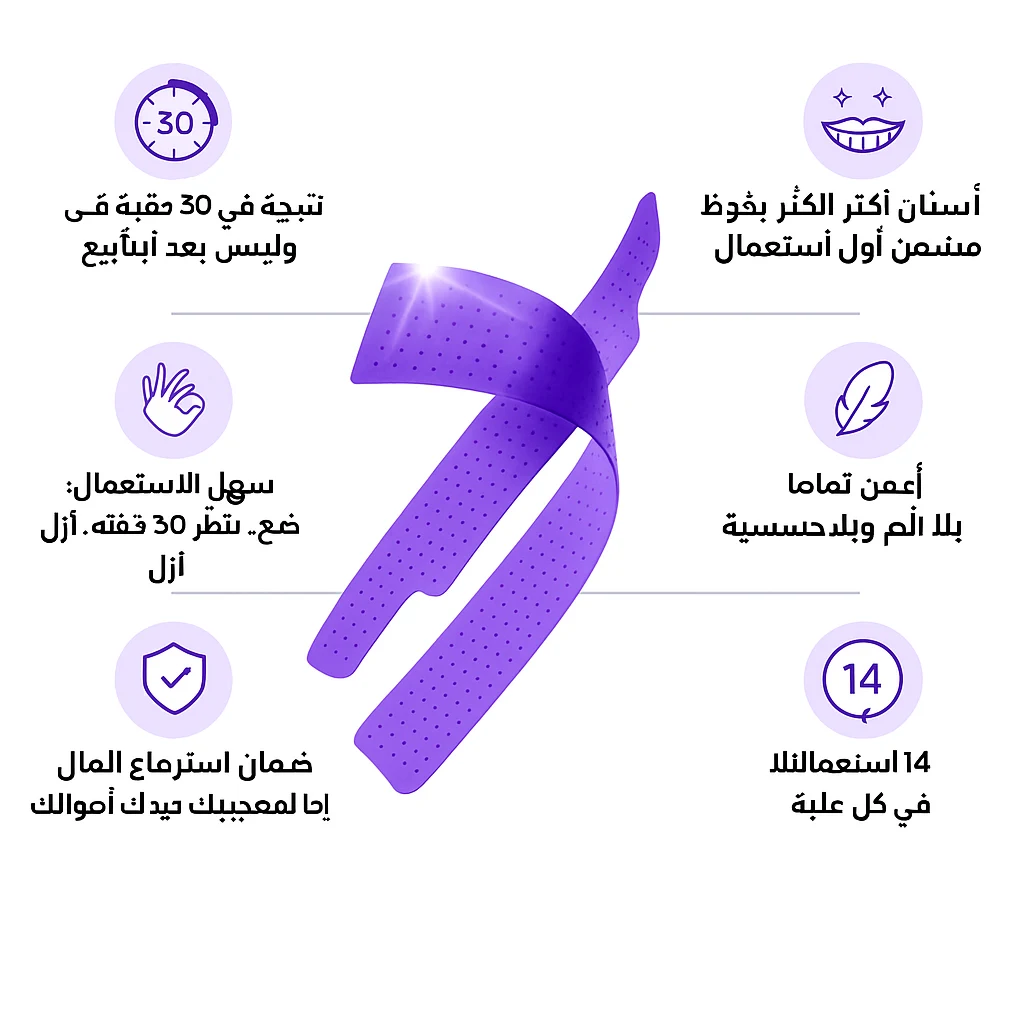
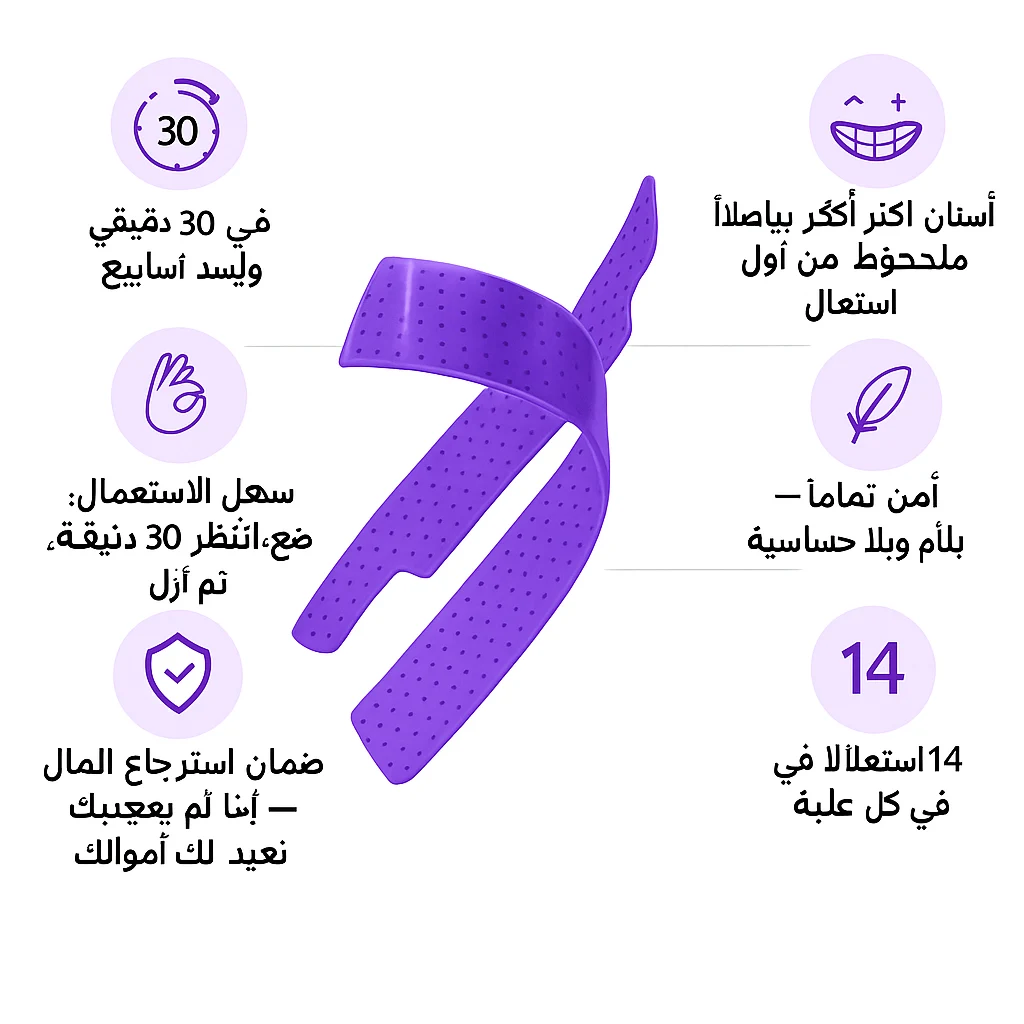
Restore OpenAI benefit infographics; regenerate Arabic from EN template on white bg.
Reverted CSS grid to img-ar/en/fr; benefits section white to match infographic; Arabic edited from benefits-infographic-en via gpt-image-1 with explicit RTL prompt.

diff --git a/src/styles.css b/src/styles.css
@@ -895,141 +895,31 @@
   .split-media img { max-width: 100%; }
 }
 
-/* ─── Benefits section (checklist only — gallery is hero-only) ─── */
-.benefits-section { padding: var(--sec-py) var(--sec-px); }
+/* ─── Benefits section — OpenAI infographic images on white ─── */
+.benefits-section {
+  padding: var(--sec-py) var(--sec-px);
+  background: #fff;
+}
 .benefits-inner {
   max-width: var(--max-w);
   margin: 0 auto;
 }
-.benefits-inner .section-head { margin-bottom: 16px; }
-
-/* Benefits infographic — native layout, blends with bg-alt (no white card) */
-.benefits-visual {
+.benefits-inner .section-head { margin-bottom: 12px; }
+.benefits-infographic-wrap {
   margin: 0 auto;
   max-width: min(920px, 100%);
-  padding: clamp(8px, 2vw, 16px) 0;
 }
-.benefits-visual-grid {
-  display: grid;
-  grid-template-columns: minmax(0, 1fr) minmax(110px, 34%) minmax(0, 1fr);
-  grid-template-rows: repeat(3, auto);
-  gap: clamp(14px, 3vw, 28px) clamp(8px, 2vw, 20px);
-  align-items: center;
-  position: relative;
-}
-.benefits-visual-center {
-  grid-column: 2;
-  grid-row: 1 / span 3;
-  display: flex;
-  align-items: center;
-  justify-content: center;
-  padding: 0 4px;
-  z-index: 1;
-}
-.benefits-visual-center img {
+.benefits-infographic {
   width: 100%;
-  max-width: 280px;
   height: auto;
-  object-fit: contain;
-  filter: drop-shadow(0 12px 28px rgba(91, 0, 158, 0.12));
-}
-.benefits-visual-item {
-  display: flex;
-  align-items: center;
-  gap: 10px;
-  min-width: 0;
-}
-.benefits-visual-pos-start-1 { grid-column: 1; grid-row: 1; justify-content: flex-end; text-align: end; }
-.benefits-visual-pos-end-1   { grid-column: 3; grid-row: 1; justify-content: flex-start; text-align: start; }
-.benefits-visual-pos-start-2 { grid-column: 1; grid-row: 2; justify-content: flex-end; text-align: end; }
-.benefits-visual-pos-end-2   { grid-column: 3; grid-row: 2; justify-content: flex-start; text-align: start; }
-.benefits-visual-pos-start-3 { grid-column: 1; grid-row: 3; justify-content: flex-end; text-align: end; }
-.benefits-visual-pos-end-3   { grid-column: 3; grid-row: 3; justify-content: flex-start; text-align: start; }
-.app[dir="ltr"] .benefits-visual-pos-start-1,
-.app[dir="ltr"] .benefits-visual-pos-start-2,
-.app[dir="ltr"] .benefits-visual-pos-start-3 {
-  justify-content: flex-start;
-  text-align: start;
-}
-.app[dir="ltr"] .benefits-visual-pos-end-1,
-.app[dir="ltr"] .benefits-visual-pos-end-2,
-.app[dir="ltr"] .benefits-visual-pos-end-3 {
-  justify-content: flex-end;
-  text-align: end;
-}
-.benefits-visual-text {
-  margin: 0;
-  font-size: clamp(12px, 1.15vw, 15px);
-  font-weight: 800;
-  line-height: 1.35;
-  color: var(--primary-dark);
-  max-width: 22ch;
-  text-wrap: balance;
-}
-.benefits-visual-icon {
-  flex: 0 0 52px;
-  width: 52px;
-  height: 52px;
-  display: flex;
-  align-items: center;
-  justify-content: center;
-  border-radius: 50%;
-  background: linear-gradient(160deg, #f3ebfc 0%, #ebe2f7 100%);
-  border: 1.5px solid rgba(91, 0, 158, 0.12);
-  color: var(--primary);
-  position: relative;
-}
-.benefits-visual-icon .material-symbols-outlined {
-  font-size: 26px;
-  font-variation-settings: 'FILL' 0, 'wght' 500;
-}
-.benefits-visual-icon--timer .material-symbols-outlined { font-size: 22px; }
-.benefits-visual-badge {
-  position: absolute;
-  font-size: 11px;
-  font-weight: 900;
-  color: var(--primary-dark);
-  line-height: 1;
-}
-.benefits-visual-icon--timer .benefits-visual-badge {
-  inset: 50% auto auto 50%;
-  transform: translate(-50%, -35%);
-}
-.benefits-visual-icon--count .benefits-visual-badge {
-  position: static;
-  font-size: 18px;
-}
-/* Horizontal rule accents between rows */
-.benefits-visual-grid::before,
-.benefits-visual-grid::after {
-  content: '';
-  position: absolute;
-  left: 8%;
-  right: 8%;
-  height: 1px;
-  background: linear-gradient(90deg, transparent, rgba(91, 0, 158, 0.14) 20%, rgba(91, 0, 158, 0.14) 80%, transparent);
-  pointer-events: none;
-}
-.benefits-visual-grid::before { top: 33%; }
-.benefits-visual-grid::after  { top: 66%; }
-@media (max-width: 640px) {
-  .benefits-visual-grid {
-    grid-template-columns: minmax(0, 1fr) minmax(88px, 30%) minmax(0, 1fr);
-    gap: 12px 6px;
-  }
-  .benefits-visual-icon {
-    flex: 0 0 44px;
-    width: 44px;
-    height: 44px;
-  }
-  .benefits-visual-icon .material-symbols-outlined { font-size: 22px; }
-  .benefits-visual-text { font-size: 11px; max-width: 18ch; }
-  .benefits-visual-center img { max-width: 200px; }
+  display: block;
+  margin: 0 auto;
+  border: none;
+  box-shadow: none;
+  background: transparent;
 }
 @media (min-width: 900px) {
-  .benefits-visual { max-width: 880px; }
-  .benefits-visual-text { font-size: 15px; max-width: 24ch; }
-  .benefits-visual-icon { flex: 0 0 58px; width: 58px; height: 58px; }
+  .benefits-infographic-wrap { max-width: 880px; }
 }
 
 /* ─── Benefits List ─── */

diff --git a/src/page.html b/src/page.html
@@ -337,43 +337,17 @@
     <!-- ══════════════════════════════════════════════════════
          BENEFITS — checklist only (gallery is hero-only)
     ══════════════════════════════════════════════════════ -->
-    <section class="benefits-section bg-alt reveal" id="benefits-section">
+    <section class="benefits-section reveal" id="benefits-section">
       <div class="benefits-inner section-container">
         <div class="section-head text-center">
           <span class="section-eyebrow" data-i18n="ben_eyebrow">الفوائد</span>
-          <h2 class="t-h2" id="benefits-section-title" data-i18n="land_benefits_h">شنو غادي تربح</h2>
+          <h2 class="t-h2" data-i18n="land_benefits_h">شنو غادي تربح</h2>
         </div>
-        <div class="benefits-visual" role="group" aria-labelledby="benefits-section-title">
-          <div class="benefits-visual-grid">
-            <div class="benefits-visual-item benefits-visual-pos-start-1">
-              <span class="benefits-visual-icon" aria-hidden="true"><span class="material-symbols-outlined">sentiment_very_satisfied</span></span>
-              <p class="benefits-visual-text" data-i18n="ben_1">أسنان أكثر بياضاً بشكل ملحوظ من أول استعمال</p>
-            </div>
-            <div class="benefits-visual-item benefits-visual-pos-end-1">
-              <p class="benefits-visual-text" data-i18n="ben_2">نتيجة في 30 دقيقة وليس بعد أسابيع</p>
-              <span class="benefits-visual-icon benefits-visual-icon--timer" aria-hidden="true"><span class="material-symbols-outlined">schedule</span><span class="benefits-visual-badge">30</span></span>
-            </div>
-            <div class="benefits-visual-item benefits-visual-pos-start-2">
-              <span class="benefits-visual-icon" aria-hidden="true"><span class="material-symbols-outlined">spa</span></span>
-              <p class="benefits-visual-text" data-i18n="ben_3">آمن تماماً — بلا ألم وبلا حساسية</p>
-            </div>
-            <div class="benefits-visual-item benefits-visual-pos-end-2">
-              <p class="benefits-visual-text" data-i18n="ben_4">سهل الاستعمال: ضع، انتظر 30 دقيقة، ثم أزل</p>
-              <span class="benefits-visual-icon" aria-hidden="true"><span class="material-symbols-outlined">front_hand</span></span>
-            </div>
-            <div class="benefits-visual-item benefits-visual-pos-start-3">
-              <span class="benefits-visual-icon benefits-visual-icon--count" aria-hidden="true"><span class="benefits-visual-badge">14</span></span>
-              <p class="benefits-visual-text" data-i18n="ben_5">14 استعمالاً في كل علبة</p>
-            </div>
-            <div class="benefits-visual-item benefits-visual-pos-end-3">
-              <p class="benefits-visual-text" data-i18n="ben_6">ضمان استرجاع المال — إذا لم يعجبك، نُعيد لك أموالك</p>
-              <span class="benefits-visual-icon" aria-hidden="true"><span class="material-symbols-outlined">verified_user</span></span>
-            </div>
-            <div class="benefits-visual-center" aria-hidden="true">
-              <img src="https://cdn.jsdelivr.net/gh/chafiyounes/mapper-youcant@main/images/benefits/strip-center.webp" alt="" width="400" height="400" loading="lazy" decoding="async"/>
-            </div>
-          </div>
-        </div>
+        <figure class="benefits-infographic-wrap">
+          <img class="img-ar benefits-infographic" src="https://cdn.jsdelivr.net/gh/chafiyounes/mapper-youcant@main/images/benefits/benefits-infographic-ar.webp" alt="أسنان أكثر بياضاً، نتيجة في 30 دقيقة، آمن تماماً، سهل الاستعمال، 14 استعمالاً، ضمان استرجاع المال" width="1024" height="1024" loading="lazy" decoding="async"/>
+          <img class="img-en benefits-infographic" src="https://cdn.jsdelivr.net/gh/chafiyounes/mapper-youcant@main/images/benefits/benefits-infographic-en.webp" alt="Visibly whiter teeth, results in 30 minutes, completely safe, easy to use, 14 uses per box, money-back guarantee" width="1024" height="1024" loading="lazy" decoding="async"/>
+          <img class="img-fr benefits-infographic" src="https://cdn.jsdelivr.net/gh/chafiyounes/mapper-youcant@main/images/benefits/benefits-infographic-fr.webp" alt="Dents plus blanches, résultat en 30 minutes, totalement sûr, facile à utiliser, 14 utilisations, satisfait ou remboursé" width="1024" height="1024" loading="lazy" decoding="async"/>
+        </figure>
       </div>
     </section>
 

diff --git a/images/benefits/README.md b/images/benefits/README.md
@@ -1,21 +1,18 @@
 # Benefits infographic (AR / EN / FR)
 
-**Live page:** uses native HTML/CSS (`.benefits-visual`) with i18n strings — perfect Arabic and blends with `--surface-alt` (`#f4f0f9`).
+Raster infographics for the benefits section. **EN** is the master template; **AR** is generated from EN via OpenAI `gpt-image-1` edit.
 
-**Optional raster exports** (AI text often breaks Arabic — not used on page):
+| File | Language | Source |
+|------|----------|--------|
+| `benefits-infographic-en.png` | English | `source.png` |
+| `benefits-infographic-ar.png` | Arabic | `benefits-infographic-en.png` |
+| `benefits-infographic-fr.png` | French | `benefits-infographic-en.png` |
 
-| File | Language |
-|------|----------|
-| `benefits-infographic-ar.webp` | Arabic (legacy) |
-| `benefits-infographic-en.webp` | English (legacy) |
-| `benefits-infographic-fr.webp` | French (legacy) |
-| `strip-center.webp` | Center product strip crop |
-
-Regenerate rasters (OpenAI `dall-e-2` edit, not Nano Banana):
+Regenerate Arabic only:
 
 ```bash
 set OPENAI_API_KEY=your_key
-python scripts/generate-benefits-infographic.py ar --model dall-e-2
+python scripts/generate-benefits-infographic.py ar --source benefits-infographic-en.png
 ```
 
-Source: `source.png` (from root `product image.png`).
+Section background is **white** (`#fff`) to match the image. Push `.webp` files to `main` for jsDelivr.